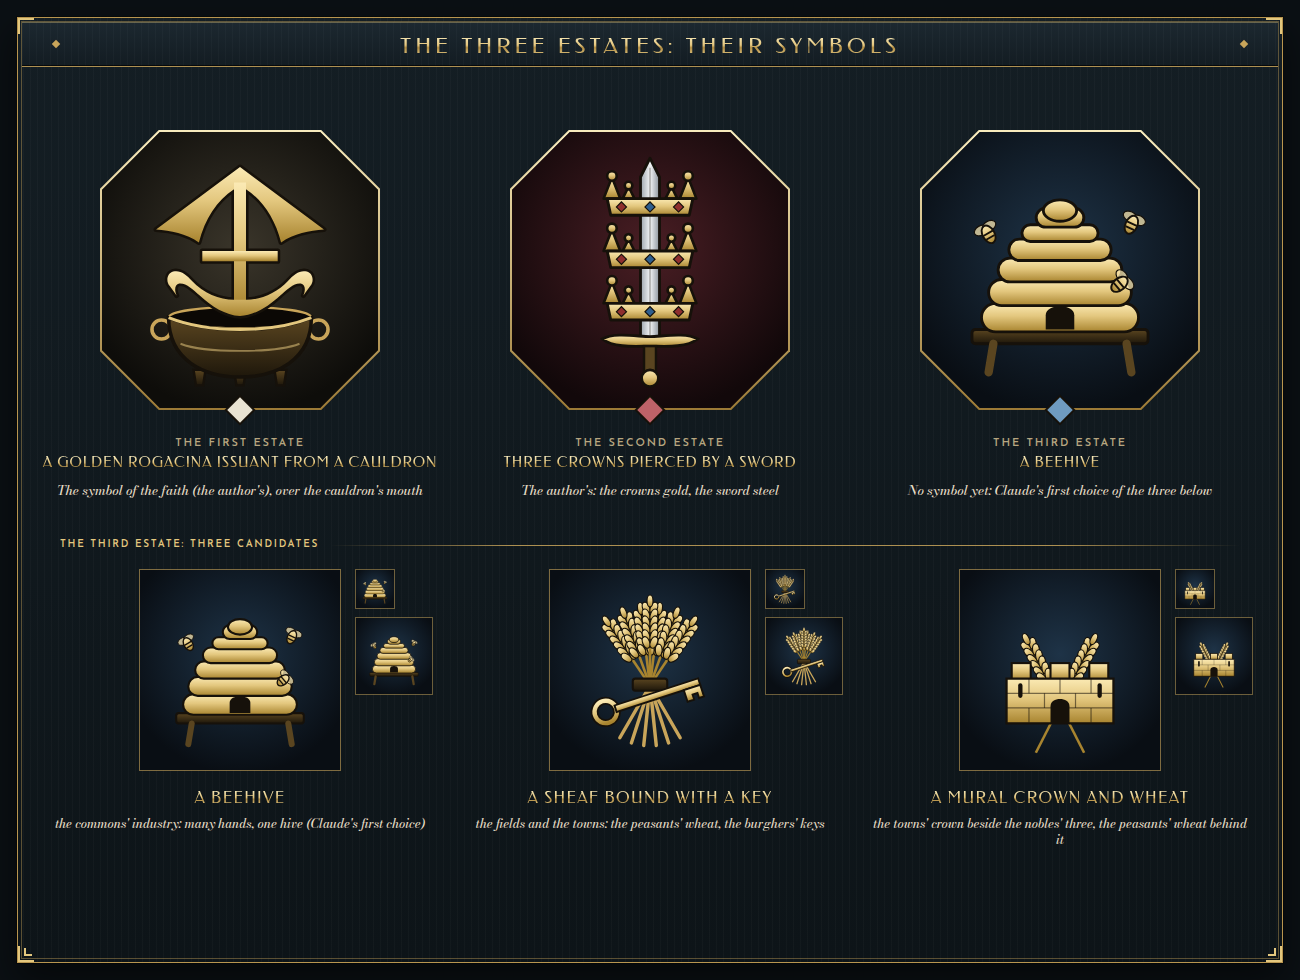
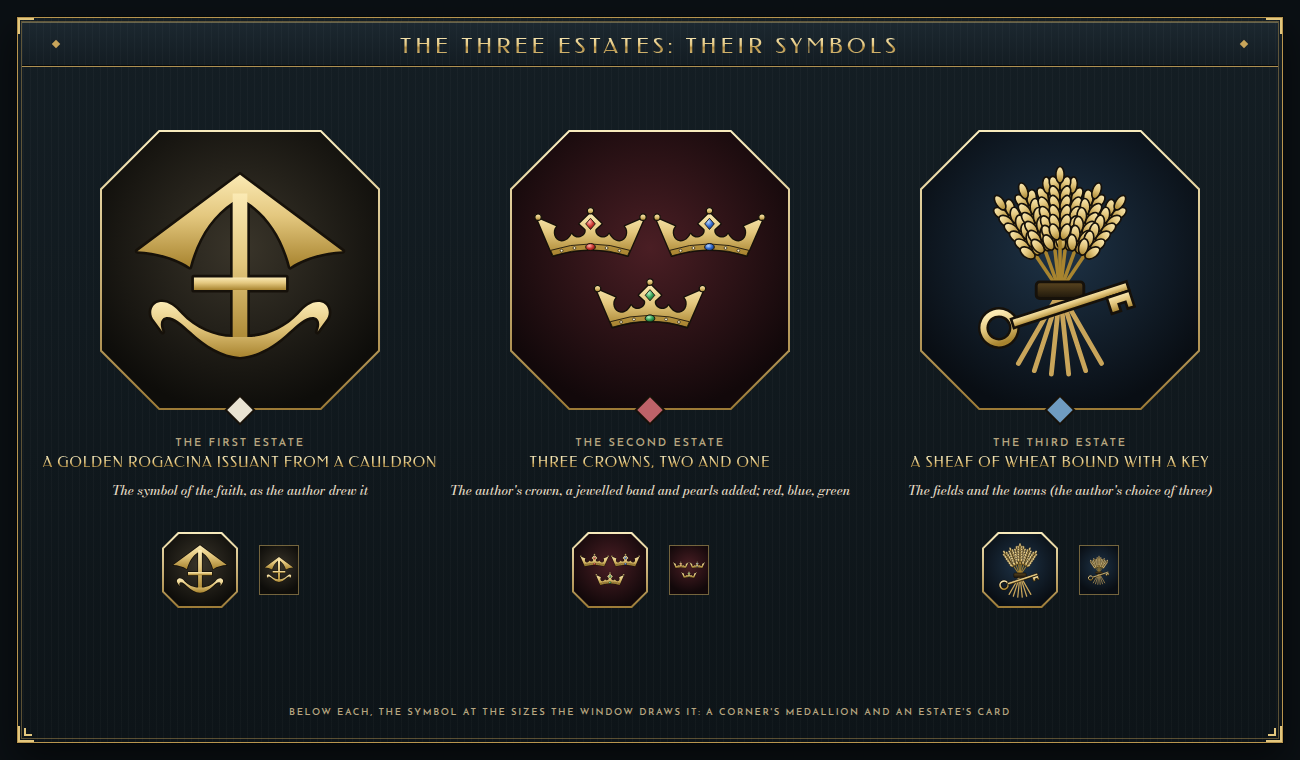
The three estates' symbols as the author wants them (mockup)
The author: "'rogacina issuant from a cauldron' is the name of the symbol, it didn't mean to put it above an actual
cauldron. Maybe just have the symbol for the 2nd estate be three crowns arranged in a triangle ... One with a red gem,
one with blue, one with green? For the third estate, I prefer the wheat and key." The rogacina alone; three crowns two
and one, after the author's crown with a jewelled band, pearls and a gem each; the sheaf bound with a key. The other
candidates are gone from symbols.py; the sheet shows each symbol large and at the window's sizes.

Claude-Session: https://claude.ai/code/session_01TG83F4TvroUcXdi7eqNhMG

diff --git a/deco_ui/art/proposals/three_estates/symbols.py b/deco_ui/art/proposals/three_estates/symbols.py
@@ -1,22 +1,27 @@
 """The three estates' symbols in place of their holders' portraits (the author, 2026-10-22: "Instead of portraits, I think
-I'd prefer to use symbols for the three estates. A golden rogacina issuant from a cauldron for the First Estate (the
-symbol of the faith,) three crowns pierced by a sword for the second estate, and I don't know what the third estate
-could use"). Drawn by hand as SVG on a 200 x 200 box: the rogacina traced from the author's picture of the faith's
-symbol; the cauldron, the crowns and sword and the Third Estate's three candidates Claude's.
+I'd prefer to use symbols for the three estates"; then: "'rogacina issuant from a cauldron' is the name of the symbol, it
+didn't mean to put it above an actual cauldron. Maybe just have the symbol for the 2nd estate be three crowns arranged in
+a triangle. Maybe have the crowns look like a slightly more ornamented version of this? One with a red gem, one with
+blue, one with green? For the third estate, I prefer the wheat and key"). Drawn by hand as SVG on a 200 x 200 box:
+the First Estate's rogacina issuant from a cauldron traced from the author's picture of the faith's symbol; the Second's
+crown traced from the author's picture of a crown (Heraldicon's), its ornaments Claude's; the Third's sheaf of wheat
+bound with a key Claude's, the author's choice of three.
 
 symbol(key, size) gives an <svg> of that size; GROUNDS the dark ground each sits on in a medallion.
 """
 
 GOLD = ('<linearGradient id="sy_gold" x1="0" y1="0" x2="0" y2="1"><stop offset="0" stop-color="#FBEAB4"/>'
         '<stop offset=".45" stop-color="#E3C77E"/><stop offset="1" stop-color="#A8842F"/></linearGradient>'
-        '<linearGradient id="sy_steel" x1="0" y1="0" x2="1" y2="0"><stop offset="0" stop-color="#9AA3AB"/>'
-        '<stop offset=".5" stop-color="#F2F4F5"/><stop offset="1" stop-color="#8A939B"/></linearGradient>'
         '<linearGradient id="sy_bronze" x1="0" y1="0" x2="0" y2="1"><stop offset="0" stop-color="#5A4520"/>'
-        '<stop offset="1" stop-color="#1E170B"/></linearGradient>')
+        '<stop offset="1" stop-color="#1E170B"/></linearGradient>'
+        + "".join(f'<radialGradient id="sy_gem_{k}" cx=".38" cy=".32" r=".75"><stop offset="0" stop-color="{a}"/>'
+                  f'<stop offset=".55" stop-color="{b}"/><stop offset="1" stop-color="{c}"/></radialGradient>'
+                  for k, (a, b, c) in {"red": ("#FFB4A8", "#C8322E", "#5E1010"), "blue": ("#B8D8FF", "#2E64C8", "#0F2A5E"),
+                                       "green": ("#B8F0C4", "#2E9A4E", "#0E4A22")}.items()))
 INK = "#16110A"
 
-# the faith's rogacina, traced from the author's picture (200 x 186): the canopy with its two blades, the shaft, the
-# cross-bar and the hooked arms
+# the faith's rogacina issuant from a cauldron (the symbol's name), traced from the author's picture (200 x 186): the
+# canopy with its two blades, the shaft, the cross-bar and the hooked arms
 ROGACINA = [
     "M100,2 L198,75 C181,76 163,80 148,90 C141,63 127,41 107,28 L93,28 C73,41 59,63 52,90 C37,80 19,76 2,75 Z",
     "M93,20 H107 V166 H93 Z",
@@ -25,6 +30,12 @@ ROGACINA = [
      "C37,137 45,145 53,152 C67,165 83,175 100,176 C117,175 133,165 147,152 C155,145 163,137 171,138 C176,139 177,145 "
      "174,152 L182,141 C187,135 185,126 178,124 C170,122 163,127 156,135 C143,149 124,157 107,157 Z"),
 ]
+# the crown, traced from the author's picture (200 x 80): two outer points flaring out, a lozenge in the middle, two
+# scallops each side of it, the base an arch
+CROWN = ("M0,9.3 L35.5,24.8 C27,34 32,52 45.3,53.3 C54,54 61,47 64.8,39.5 C68,45 74,46.5 77.9,46.1 "
+         "C86,45.5 93,38 90.7,30.7 L79.5,20.5 L100,0 L120.5,20.5 L109.3,30.7 C107,38 114,45.5 121.3,46.1 "
+         "C126,46.5 132,45 134.7,39.5 C139,47 146,54 154.7,53.3 C168,52 173,34 164.5,24.8 L200,9.3 L169.3,80 "
+         "Q100,57.6 29.9,80 Z")
 
 
 def outlined(paths, fill, width=5, transform=""):
@@ -36,70 +47,34 @@ def outlined(paths, fill, width=5, transform=""):
 
 
 def first():
-    """a golden rogacina issuant from a cauldron: the arms' foot in the cauldron's mouth, the rim over it"""
-    s = 0.72
-    rog = outlined(ROGACINA, "url(#sy_gold)", 6, f"translate({100 - 100 * s:.1f},12) scale({s})")
-    mouth = '<ellipse cx="100" cy="140" rx="60" ry="9" fill="#0B0805" stroke="#C9A55A" stroke-width="2"/>'
-    body = ('<path d="M40,140 C40,176 70,190 100,190 C130,190 160,176 160,140 C140,148 120,150 100,150 C80,150 60,148 40,140 Z" '
-            f'fill="url(#sy_bronze)" stroke="{INK}" stroke-width="3"/>'
-            '<path d="M40,140 C60,148 80,150 100,150 C120,150 140,148 160,140" fill="none" stroke="#E3C77E" stroke-width="2.6"/>'
-            '<path d="M50,162 C70,170 130,170 150,162" fill="none" stroke="rgba(227,199,126,.55)" stroke-width="1.6"/>')
-    legs = "".join(f'<path d="M{x - 5},184 L{x + 5},184 L{x + 3},197 L{x - 3},197 Z" fill="url(#sy_bronze)" stroke="{INK}" '
-                   f'stroke-width="2"/>' for x in (66, 100, 134))
-    rings = "".join(f'<circle cx="{x}" cy="150" r="8" fill="none" stroke="#C9A55A" stroke-width="3"/>' for x in (34, 166))
-    return legs + rings + mouth + rog + body
+    """the golden rogacina issuant from a cauldron, the faith's symbol, as the author drew it"""
+    s = 0.88
+    return outlined(ROGACINA, "url(#sy_gold)", 5, f"translate({100 - 100 * s:.1f},{(200 - 186 * s) / 2:.1f}) scale({s})")
 
 
-def crown(cx, top, w=72):
-    """an open crown: three fleurons and two pearls over a jewelled band; (back, front) so a blade can pass between"""
-    x0, x1 = cx - w / 2, cx + w / 2
-    band_y = top + 22
-    fl = ""
-    for i, x in enumerate((x0 + 4, cx - w / 4, cx, cx + w / 4, x1 - 4)):
-        if i % 2 == 0:   # a fleuron: a point with a ball
-            fl += f'<path d="M{x - 7},{band_y} L{x},{top + 4} L{x + 7},{band_y} Z"/><circle cx="{x}" cy="{top + 3}" r="4"/>'
-        else:            # a pearl on a shorter point
-            fl += f'<path d="M{x - 5},{band_y} L{x},{top + 12} L{x + 5},{band_y} Z"/><circle cx="{x}" cy="{top + 11}" r="3.2"/>'
-    back = (f'<g fill="url(#sy_gold)" stroke="{INK}" stroke-width="2.2" stroke-linejoin="round">{fl}</g>')
-    front = (f'<path d="M{x0},{band_y} H{x1} L{x1 - 3},{band_y + 14} H{x0 + 3} Z" fill="url(#sy_gold)" stroke="{INK}" '
-             f'stroke-width="2.4" stroke-linejoin="round"/>'
-             + "".join(f'<rect x="{x - 3}" y="{band_y + 4}" width="6" height="6" transform="rotate(45 {x} {band_y + 7})" '
-                       f'fill="{c}" stroke="{INK}" stroke-width="1"/>'
-                       for x, c in ((cx - w / 3, "#8E2E2E"), (cx, "#2E5E8E"), (cx + w / 3, "#8E2E2E"))))
-    return back, front
+def crown(x, y, w, gem):
+    """the author's crown a little more ornate, its top left at (x, y), w wide: a jewelled band along the arch, pearls on
+    the three points, a gem in the lozenge and a larger one in the band's middle, both of `gem`'s colour"""
+    k = w / 200
+    band = "M29.9,80 Q100,57.6 169.3,80 L173.6,70 Q100,46 25.6,70 Z"            # the band under the arch's top line
+    pearls = "".join(f'<circle cx="{px}" cy="{py}" r="6" fill="url(#sy_gold)" stroke="{INK}" stroke-width="2.4"/>'
+                     for px, py in ((2, 8), (198, 8), (100, -4)))
+    studs = "".join(f'<circle cx="{px}" cy="{py}" r="2.6" fill="#FFF4D0" stroke="{INK}" stroke-width="1.2"/>'
+                    for px, py in ((46, 70.5), (70, 65.6), (130, 65.6), (154, 70.5)))
+    return (f'<g transform="translate({x},{y}) scale({k})">'
+            + outlined([CROWN], "url(#sy_gold)", 5)
+            + f'<path d="{band}" fill="rgba(168,132,47,.55)" stroke="{INK}" stroke-width="1.6"/>'
+            + f'<path d="M100,10 L109,20.5 L100,31 L91,20.5 Z" fill="url(#sy_gem_{gem})" stroke="{INK}" stroke-width="1.6"/>'
+            + f'<ellipse cx="100" cy="63.8" rx="9" ry="6.6" fill="url(#sy_gem_{gem})" stroke="{INK}" stroke-width="1.8"/>'
+            + studs + pearls + "</g>")
 
 
 def second():
-    """three crowns pierced by a sword, point upward: each crown's points behind the blade, its band in front"""
-    blade = (f'<path d="M100,6 L108,22 L108,158 L92,158 L92,22 Z" fill="url(#sy_steel)" stroke="{INK}" stroke-width="2.4" '
-             'stroke-linejoin="round"/><path d="M100,14 L100,156" stroke="rgba(22,17,10,.35)" stroke-width="1.2"/>')
-    hilt = (f'<path d="M60,158 C70,152 90,156 100,156 C110,156 130,152 140,158 C130,166 110,164 100,164 C90,164 70,166 60,158 Z" '
-            f'fill="url(#sy_gold)" stroke="{INK}" stroke-width="2.4"/>'
-            f'<rect x="95" y="164" width="10" height="22" fill="#5A4520" stroke="{INK}" stroke-width="2"/>'
-            f'<circle cx="100" cy="191" r="7" fill="url(#sy_gold)" stroke="{INK}" stroke-width="2.2"/>')
-    crowns = [crown(100, t) for t in (18, 62, 106)]
-    return "".join(b for b, _ in crowns) + blade + "".join(f for _, f in crowns) + hilt
-
-
-def third_beehive():
-    """a straw skep on its stand, three bees about it: the commons' industry"""
-    coils = ""
-    rows = [(150, 132), (128, 120), (108, 104), (90, 86), (74, 64), (62, 40)]   # (bottom y of the coil, its width)
-    for (y, w), (y2, _) in zip(rows, rows[1:] + [(48, 0)]):
-        h = y - y2
-        coils += (f'<rect x="{100 - w / 2}" y="{y2}" width="{w}" height="{h + 2}" rx="{h / 2 + 1}" fill="url(#sy_gold)" '
-                  f'stroke="{INK}" stroke-width="2.4"/>')
-    top = f'<ellipse cx="100" cy="50" rx="14" ry="9" fill="url(#sy_gold)" stroke="{INK}" stroke-width="2.4"/>'
-    door = f'<path d="M88,150 V138 C88,128 112,128 112,138 V150 Z" fill="#16110A"/>'
-    stand = (f'<rect x="26" y="150" width="148" height="12" rx="3" fill="url(#sy_bronze)" stroke="{INK}" stroke-width="2.4"/>'
-             f'<path d="M44,162 L40,186 M156,162 L160,186" stroke="#5A4520" stroke-width="7" stroke-linecap="round"/>')
-
-    def bee(x, y, r):
-        return (f'<g transform="translate({x},{y}) rotate({r})"><ellipse cx="-4" cy="-6" rx="6" ry="4" fill="rgba(251,234,180,.75)" '
-                f'stroke="{INK}" stroke-width="1"/><ellipse cx="4" cy="-6" rx="6" ry="4" fill="rgba(251,234,180,.75)" '
-                f'stroke="{INK}" stroke-width="1"/><ellipse cx="0" cy="0" rx="5" ry="8" fill="url(#sy_gold)" stroke="{INK}" '
-                f'stroke-width="1.6"/><path d="M-4.5,-1 H4.5 M-4,3 H4" stroke="{INK}" stroke-width="1.6"/></g>')
-    return stand + coils + top + door + bee(40, 70, -30) + bee(160, 62, 25) + bee(150, 112, 50)
+    """three crowns in a triangle, two and one (as heraldry sets three charges): red and blue above, green below"""
+    w = 90
+    h = w * .4
+    return (crown(100 - w - 5, 100 - h - 12, w, "red") + crown(105, 100 - h - 12, w, "blue")
+            + crown(100 - w / 2, 100 + 12, w, "green"))
 
 
 def ear(x, y, angle, length=56):
@@ -131,26 +106,8 @@ def third_sheaf():
     return stalks + ears + band + key
 
 
-def third_mural():
-    """a mural crown, the towns' crown, two ears of wheat crossed behind it: the burghers and the peasants"""
-    ears = ear(128, 196, -27, 150) + ear(72, 196, 27, 150)
-    merlons = "".join(f'<rect x="{x}" y="92" width="22" height="20" fill="url(#sy_gold)" stroke="{INK}" stroke-width="2.4"/>'
-                      for x in (44, 89, 134))
-    wall = (f'<path d="M38,110 H162 V162 H38 Z" fill="url(#sy_gold)" stroke="{INK}" stroke-width="2.6"/>'
-            + "".join(f'<path d="M38,{y} H162" stroke="rgba(22,17,10,.55)" stroke-width="1.4"/>' for y in (127, 144))
-            + "".join(f'<path d="M{x},{y0} V{y0 + 17}" stroke="rgba(22,17,10,.55)" stroke-width="1.4"/>'
-                      for y0, xs in ((110, (64, 100, 136)), (127, (82, 118)), (144, (64, 136))) for x in xs)
-            + f'<path d="M89,162 V142 C89,131 111,131 111,142 V162 Z" fill="#16110A"/>'
-            + "".join(f'<path d="M{x},118 V130" stroke="#16110A" stroke-width="5" stroke-linecap="round"/>' for x in (54, 146)))
-    return ears + merlons + wall
-
-
-DRAW = {"first": first, "second": second, "third": third_beehive,
-        "third_beehive": third_beehive, "third_sheaf": third_sheaf, "third_mural": third_mural}
+DRAW = {"first": first, "second": second, "third": third_sheaf}
 GROUNDS = {"first": ("#3A352A", "#0E0D0A"), "second": ("#4A1E24", "#12080A"), "third": ("#1E3347", "#090E14")}
-THIRD = [("third_beehive", "A beehive", "the commons' industry: many hands, one hive (Claude's first choice)"),
-         ("third_sheaf", "A sheaf bound with a key", "the fields and the towns: the peasants' wheat, the burghers' keys"),
-         ("third_mural", "A mural crown and wheat", "the towns' crown beside the nobles' three, the peasants' wheat behind it")]
 
 
 def symbol(key, size, pad=0.08):
@@ -158,10 +115,3 @@ def symbol(key, size, pad=0.08):
     m = 200 * pad
     return (f'<svg width="{size}" height="{size}" viewBox="{-m} {-m} {200 + 2 * m} {200 + 2 * m}" style="display:block">'
             f'<defs>{GOLD}</defs>{DRAW[key]()}</svg>')
-
-
-def medallion(key, size):
-    """the symbol on its estate's ground: a dark radial wash in the estate's colour"""
-    a, b = GROUNDS[key.split("_")[0] if key.startswith("third") else key]
-    return (f'<div style="position:absolute;left:0;top:0;width:{size}px;height:{size}px;'
-            f'background:radial-gradient(circle at 50% 42%,{a},{b} 78%)">{symbol(key, size)}</div>')

diff --git a/deco_ui/art/proposals/three_estates/make.py b/deco_ui/art/proposals/three_estates/make.py
@@ -14,7 +14,7 @@ Three screens:
   three_estates_lords_realm.png  1 March 2037: the Second Estate over 60, the Lords' Realm: Royal Authority falling, the
                                  Court behind Serelle, the governorates under 40 that would break away
   three_estates_zones.png        the seven zones, Royal Authority and the Court's favour (a sheet for the author)
-  three_estates_symbols.png      the estates' symbols large, and the Third Estate's three candidates
+  three_estates_symbols.png      the estates' symbols large, and at the sizes the window draws them
 The estates are shown by their symbols, not their holders' portraits (the author: "Instead of portraits, I think I'd
 prefer to use symbols for the three estates": symbols.py).
 Not in the mod; the zones' names and effects, the decisions, Royal Authority's bands and every number but the start
@@ -226,7 +226,7 @@ def corners_of(T, shares):
 
 def picture(k, w, h):
     """the estate's symbol on its ground (the author, 2026-10-22: "Instead of portraits, I think I'd prefer to use
-    symbols for the three estates"): the Third Estate's the beehive, the first of Claude's candidates"""
+    symbols for the three estates"; symbols.py)"""
     a, b = SY.GROUNDS[k]
     n = min(w, h)
     return (f'<div style="position:absolute;left:0;top:0;width:{w}px;height:{h}px;'
@@ -529,15 +529,14 @@ def zones_sheet():
 
 
 def symbols_sheet():
-    """the three symbols large in the corners' medallions, the Third Estate's candidates under them"""
-    w, h = 1300, 980
+    """the three symbols large in the corners' medallions, and each at the sizes the window draws it"""
+    w, h = 1300, 760
     body = box(0, 0, w, h, "background:#0B1014")
     body += window(16, 16, w - 32, h - 32)
     body += header(22, 22, w - 44, 44, "The Three Estates: their symbols", 22)
-    lines = {"first": ("A golden rogacina issuant from a cauldron", "The symbol of the faith (the author's), over the "
-                       "cauldron's mouth"),
-             "second": ("Three crowns pierced by a sword", "The author's: the crowns gold, the sword steel"),
-             "third": ("A beehive", "No symbol yet: Claude's first choice of the three below")}
+    lines = {"first": ("A golden rogacina issuant from a cauldron", "The symbol of the faith, as the author drew it"),
+             "second": ("Three crowns, two and one", "The author's crown, a jewelled band and pearls added; red, blue, green"),
+             "third": ("A sheaf of wheat bound with a key", "The fields and the towns (the author's choice of three)")}
     for i, k in enumerate(ORDER):
         cx, cy = 240 + i * 410, 270
         body += TP.octo(cx, cy, 140, picture(k, 276, 276))
@@ -545,21 +544,13 @@ def symbols_sheet():
                     "box-shadow:0 0 0 2px #16110A")
         body += label(cx - 190, cy + 168, ESTATES[k][0], 11, LABEL, w=380, align="center")
         body += title(cx - 200, cy + 186, lines[k][0], 14.5, w=400, align="center", track=.06)
-        body += text(cx - 190, cy + 214, lines[k][1], 13, CREAM2, w=380, align="center", font="bod", weight=500)
-    y = 540
-    body += label(60, y, "The Third Estate: three candidates", 10, GILT) + fade_rule(330, y + 5, w - 60)
-    for i, (key, name, why) in enumerate(SY.THIRD):
-        cx = 240 + i * 410
-        a, b = SY.GROUNDS["third"]
-        body += (f'<div class="a" style="left:{cx - 100}px;top:{y + 30}px;width:200px;height:200px;'
-                 f'background:radial-gradient(circle at 50% 42%,{a},{b} 78%);box-shadow:0 0 0 1px rgba(201,165,90,.6)">'
-                 f'{SY.symbol(key, 200)}</div>')
-        for top, n in ((y + 30, 38), (y + 78, 76)):   # at the sizes the window shows them
-            body += (f'<div class="a" style="left:{cx + 116}px;top:{top}px;width:{n}px;height:{n}px;'
-                     f'background:radial-gradient(circle at 50% 42%,{a},{b} 78%);box-shadow:0 0 0 1px rgba(201,165,90,.5)">'
-                     f'{SY.symbol(key, n)}</div>')
-        body += title(cx - 190, y + 250, name, 16, w=380, align="center", track=.08)
-        body += text(cx - 190, y + 276, why, 12.5, CREAM2, w=380, align="center", font="bod", weight=500, lh=1.3)
+        body += text(cx - 200, cy + 214, lines[k][1], 13, CREAM2, w=400, align="center", font="bod", weight=500)
+        # at the window's sizes: the corner's medallion (76) and the card's well (38)
+        body += TP.octo(cx - 40, cy + 300, 38, picture(k, 72, 72))
+        body += (f'<div class="a" style="left:{cx + 20}px;top:{cy + 276}px;width:38px;height:48px;'
+                 f'box-shadow:0 0 0 1px rgba(201,165,90,.55);overflow:hidden">{picture(k, 38, 48)}</div>')
+    body += label(60, h - 52, "Below each, the symbol at the sizes the window draws it: a corner's medallion and an "
+                  "estate's card", 9.5, LABEL, w=w - 120, align="center")
     return body, w, h
 
 

diff --git a/deco_ui/art/proposals/three_estates/README.md b/deco_ui/art/proposals/three_estates/README.md
@@ -13,7 +13,7 @@ mockup." The plan and the author's words in full: `docs/ROUENTAL_ESTATES.md`.
 |---|---|
 | `three_estates_window.png` | 1 June 2036. The politics screen with the Three Estates' button where the three powers' sits, and its window. The triangle: the First Estate (the clergy, Anserra IX) at the top, the Second (the nobility, Tara Blanchart) bottom left, the Third (the commons, their champion to be named) bottom right; the marker in the Balance of Estates. Beside it: the estates, the Crown (Royal Authority 35 and rising; whom the Court follows, Roland 62, his diplomatic bonuses), the decisions, the estates' leanings. Under the triangle the Promised Reforms running (212 days left). Divide and Rule hovered: the strongest estate gives ground |
 | `three_estates_lords_realm.png` | 1 March 2037. The Second Estate at 63: the Lords' Realm. Royal Authority 12 and falling; the Court behind Serelle (her army bonuses); in place of the decisions, the realm's map with the five governorates under 40 loyalty that would break away, numbered on their seals |
-| `three_estates_symbols.png` | The three estates' symbols, in place of their holders' portraits (the author: "Instead of portraits, I think I'd prefer to use symbols for the three estates. A golden rogacina issuant from a cauldron for the First Estate (the symbol of the faith,) three crowns pierced by a sword for the second estate, and I don't know what the third estate could use"): the rogacina traced from the author's picture, rising from a bronze cauldron; three gold crowns on a steel sword; for the Third Estate three candidates, a beehive (in the screens), a sheaf of wheat bound with a key, a mural crown with wheat; each at the sizes the window draws them |
+| `three_estates_symbols.png` | The three estates' symbols, in place of their holders' portraits (the author: "Instead of portraits, I think I'd prefer to use symbols for the three estates"; then: "'rogacina issuant from a cauldron' is the name of the symbol ... Maybe just have the symbol for the 2nd estate be three crowns arranged in a triangle. Maybe have the crowns look like a slightly more ornamented version of this? One with a red gem, one with blue, one with green? For the third estate, I prefer the wheat and key"): the rogacina as the author drew it; three crowns two and one, the author's crown (Heraldicon's) with a jewelled band, pearls on its points and a red, a blue and a green gem; a sheaf of wheat bound with a key; each also at the sizes the window draws it |
 | `three_estates_zones.png` | A sheet for the author: the seven zones, where each begins, what each does and where it leads; Royal Authority's bands and how it moves; what Roland and Serelle each give when they lead |
 
 **How it reads.** The three estates' shares make 100, so the balance is one point in the triangle. An estate of 60 or
@@ -45,9 +45,7 @@ decision (`days_mission_timeout`, its `timeout_effect` the uprising); the Lords'
 the line as subjects of a level of the mod's own (the base game's `autonomy_integrated_puppet` asks for a DLC and bars
 a fascist overlord with a fascist subject), each won back by a decision.
 
-The estates are shown by their symbols (`symbols.py`, drawn by hand as SVG: the rogacina from the author's picture;
-the cauldron, the crowns and sword and the Third Estate's candidates Claude's), on a dark ground in each estate's colour,
-in the corners' medallions and the estates' cards; their holders' names stay in the cards.
+The estates are shown by their symbols (`symbols.py`, drawn by hand as SVG: the rogacina and the crown traced from the author's pictures, the crowns' ornaments and the sheaf and key Claude's), on a dark ground in each estate's colour, in the corners' medallions and the estates' cards; their holders' names stay in the cards.
 
 How they are made: `make.py` draws with the pieces of `../next_screens/deco.py` and the three powers' mockup (its
 triangle and politics screen, given the estates), the realm's map from `scripts/rouental_realm.py`.

diff --git a/dist/open_questions.md b/dist/open_questions.md
@@ -21,7 +21,6 @@ eleven Couronneterre's in name, and its spelling (36 then); Rouental's 24 cities
 | 35 | the three powers and the governorates, in game since 2026-10-21, night (bare bones), seen 2026-10-22 ("Looks great so far"): the map's clicks redone (the game clicks a button by its box: now rectangles that tile each governorate), the marker in its place, the Open button's text dark. Click anywhere in a governorate: does it pick that one? The zones' names and effects and the decisions are still Claude's; the other five attitudes' sides later | in game |
 | 36 | Guedelon's ruler: its page names it "The Council of Six", but its portrait says Conseil des Sept (the Council of Seven, you said). Change the name on the page (it comes in with your next export), or tell me what it should be | the Gazetteer |
 | 38 | the three estates (`deco_ui/art/proposals/three_estates/`): the Third Estate's champion (a placeholder: your name for them, and whether the reformer and the secret communist are one person); the mockup's placeholders (the zones, Royal Authority's numbers, the Court's bonuses, the decisions, the breaking line at loyalty 40) | the mockup |
-| 40 | the Third Estate's symbol: a beehive (in the mockup), a sheaf of wheat bound with a key, or a mural crown with wheat (`deco_ui/art/proposals/three_estates/three_estates_symbols.png`), or one of yours | the mockup |
 | 39 | a French word for the governorates: *gouvernement* (the old French provinces' own word for a governor's province) or *généralité* (the Crown's districts under an intendant); or keep "governorate" | |
 | 33 | the groups' way back: "Be prepared for the posibility of returning to how it currently is though": the map before them is kept (`work/pre_groups_1021/`, and the commit before) until you say they stay | |
 

diff --git a/docs/ROUENTAL_ESTATES.md b/docs/ROUENTAL_ESTATES.md
@@ -67,11 +67,15 @@ Claude's placeholder).
 the three estates. A golden rogacina issuant from a cauldron for the First Estate (the symbol of the faith,) three crowns
 pierced by a sword for the second estate, and I don't know what the third estate could use." Drawn for the mockup
 (`deco_ui/art/proposals/three_estates/symbols.py`, the rogacina traced from the author's picture); for the Third Estate
-three candidates of Claude's: a beehive, a sheaf of wheat bound with a key, a mural crown with wheat.
+three candidates of Claude's: a beehive, a sheaf of wheat bound with a key, a mural crown with wheat. Then: "Ah,
+"rogacina issuant from a cauldron" is the name of the symbol, it didn't mean to put it above an actual cauldron. Maybe
+just have the symbol for the 2nd estate be three crowns arranged in a triangle. Maybe have the crowns look like a
+slightly more ornamented version of this? One with a red gem, one with blue, one with green? For the third estate, I
+prefer the wheat and key." So: the rogacina alone; three crowns two and one after the author's picture of a crown,
+ornamented, red, blue and green; the sheaf bound with a key.
 
 ## Open
 
-- The Third Estate's symbol: the beehive in the mockup, or the sheaf and key, or the mural crown, or the author's own.
 
 - The word for the governorates: the author asks whether French has a better one (Claude's suggestions in the chat of
   2026-10-22: *gouvernement*, the old French provinces' own; *généralité*, the Crown's districts under an intendant).
